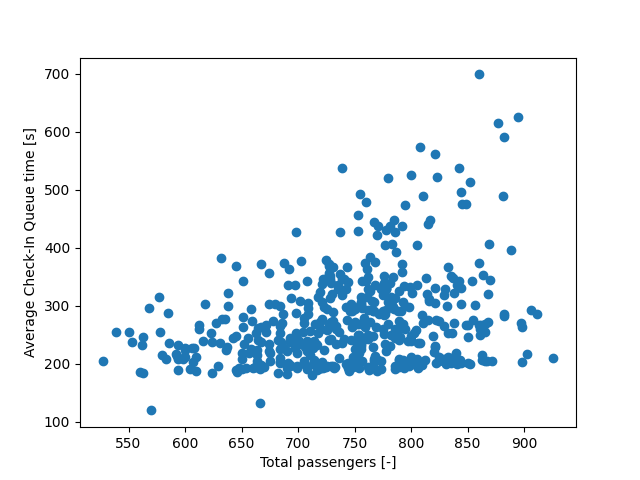
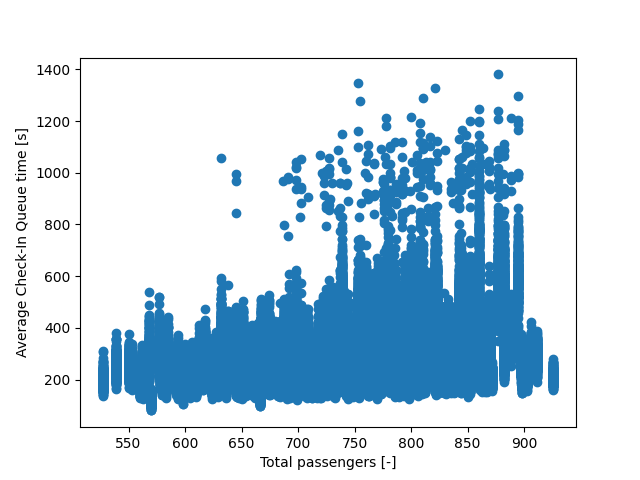
Added remove_faulty function
Doesn't work yet

diff --git a/handle_data.py b/handle_data.py
@@ -156,6 +156,7 @@ def manipulate_data(data: dict) -> dict:
         if len(set(input_data[key])) == 1:
             # If there's only one unique value, delete the column
             del input_data[key]
+
     input_data = input_data.drop(["IdentifierType", "IdentifierScenario", "IdentifierRun"], axis=1)
     
     # Averaging maximum passengers in check in queue, and replacing the old columns with the average
@@ -228,5 +229,37 @@ def manual_check_data(data: dict) -> None:
     for n, column_name in enumerate(list(output_row.columns)):
         print(f"{column_name}: {output_values[0][n]}")
     print("[DEBUG] End of manual data check, you can compare these values with what is in the powerpoint")
+
+def remove_faulty(data: dict, variable):
+    list = data["Output"][variable]
+    data_amount = len(list)
+    use = list.sort_values(ascending = True)
+    data_amount_quart = data_amount / 4
+    IQR = use[3*data_amount_quart] - use[data_amount_quart]
+    whisker = 1.5 * IQR
+    acceptable_min = use[data_amount_quart] - whisker
+    acceptable_max = use[3*data_amount_quart] + whisker
+    data = data[data["Output"][variable] <= acceptable_max]
+    data = data[data["Output"][variable] >= acceptable_min]
+
+    for i in data["Output"][variable]:
+        if i > 2000:
+            print(i)
+
+    # Q1 = data["Output"][variable].quantile(0.25)
+    # Q3 = data["Output"][variable].quantile(0.75)
+    # IQR = Q3 - Q1    #IQR is interquartile range. 
+
+    # filter = (data["Output"][variable] >= Q1 - 1 * IQR) & (data["Output"][variable] <= Q3 + 1 *IQR)
+    # data["Output"][variable].loc[filter]
+
+    # for i in data["Output"][variable]:
+    #     if filter[i] == False:
+    #         print(i)
+    
+    
+    
+
+
 
 print("Why, hello there")

diff --git a/main.py b/main.py
@@ -45,7 +45,7 @@ if __name__ == '__main__':
 
     data = handle_data.manipulate_data(data)
     # data_avg = handle_data.average_data(data)
-    handle_data.manual_check_data(data)
+    # handle_data.manual_check_data(data)
 
-    print(data.keys())
-    generate_plots(data_avg)
+    handle_data.remove_faulty(data, "TotalExpenditure")
+    generate_plots(data)
